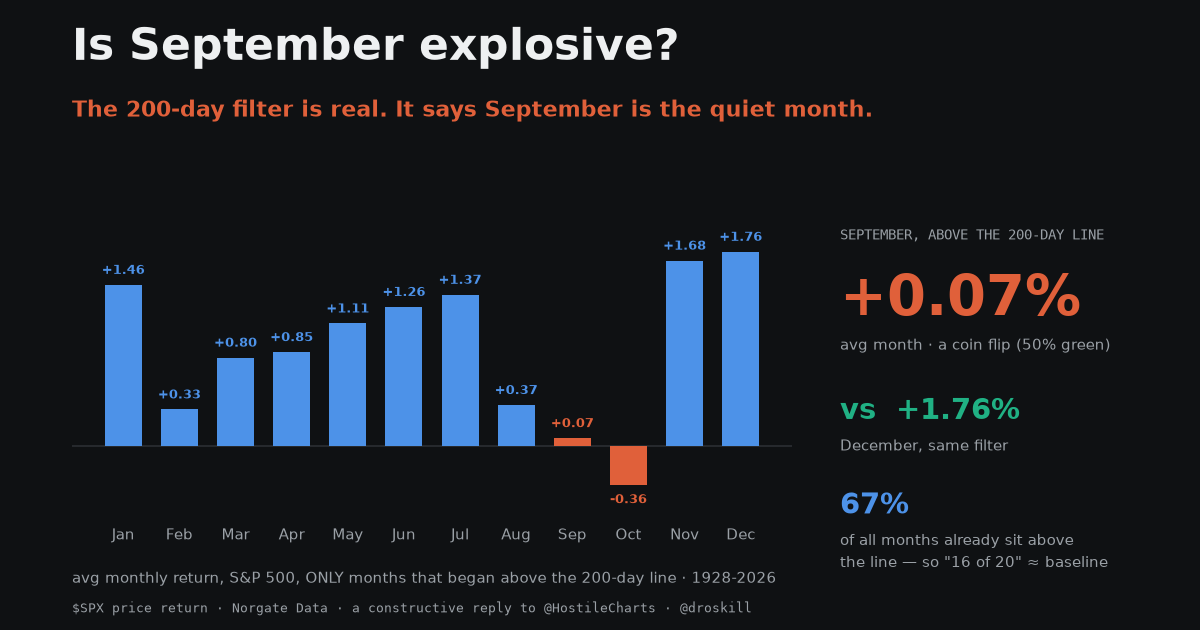
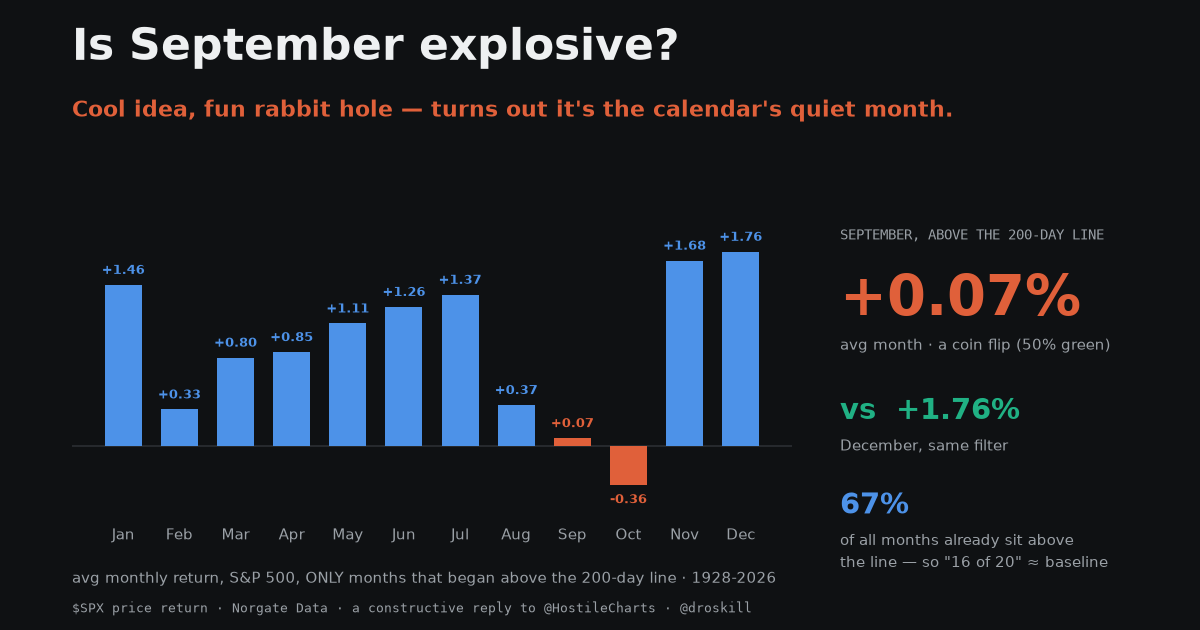
September page: warmer, more casual tone
Rewrite copy from a 'well, actually' register to genuine nerd-enthusiasm
(cool idea, fun rabbit hole). Same data and charts; friendlier framing that
credits @HostileCharts throughout.

Changed region(s): [[0.0617, 0.1508, 0.8017, 0.2111]]

diff --git a/september-200ma-study/index.html b/september-200ma-study/index.html
@@ -229,9 +229,9 @@ footer a{font-family:"IBM Plex Mono",monospace; font-size:13px}
 <div class="wrap">
 
 <header>
-  <p class="eyebrow">Seasonality forensics · Aug 2026</p>
+  <p class="eyebrow">A seasonality rabbit hole · Aug 2026</p>
   <h1>Is September <em>explosive?</em></h1>
-  <p class="dek">A post from X made a sharp observation: the best Septembers cluster above the 200-day average. That&rsquo;s a real, useful filter &mdash; so I ran it across all twelve months of the S&amp;P 500 back to 1928. It holds market-wide. And it says September is the calendar&rsquo;s quietest month, not its firecracker.</p>
+  <p class="dek">A post from X caught my eye: the best Septembers tend to show up above the 200-day average. Fun idea, and it got me curious &mdash; so I chased it across all twelve months of the S&amp;P back to 1928. Good news: the filter totally works. Funny news: it makes September look like the sleepiest month on the calendar, not the firecracker.</p>
   <div class="byline">
     <span><b>@droskill</b></span>
     <span>S&amp;P 500 ($SPX)</span>
@@ -241,9 +241,9 @@ footer a{font-family:"IBM Plex Mono",monospace; font-size:13px}
 </header>
 
 <section class="measure">
-  <p class="lead">Credit where it&rsquo;s due: the chart from <a href="https://x.com/HostileCharts" rel="nofollow">@HostileCharts</a> was making a genuinely good point. Of the 20 best Septembers since 1928, 16 came while the S&amp;P was above its 200-day moving average and 15 had a positive year-to-date. The conclusion &mdash; that September&rsquo;s character depends on the conditions it starts in, and that the same setup can produce both the best and worst months &mdash; is exactly the right instinct. Trend state matters. Most people ignore it entirely.</p>
+  <p class="lead">First off &mdash; I really liked this chart from <a href="https://x.com/HostileCharts" rel="nofollow">@HostileCharts</a>. Of the 20 best Septembers since 1928, 16 happened with the S&amp;P above its 200-day moving average and 15 had a positive year-to-date. The takeaway &mdash; that September&rsquo;s mood depends on the weather it starts in, and the same setup can cook up both the best months and the worst &mdash; is a genuinely good instinct. Trend state matters, and most people never even look at it. So: cool idea. I wanted to play with it.</p>
 
-  <p>So this isn&rsquo;t a takedown. It&rsquo;s a &ldquo;yes, and.&rdquo; The 200-day filter is real enough to be worth generalizing, and the honest way to test it is to apply it to <em>every</em> month, not just September. When you do, two things fall out. The filter earns its keep across the whole calendar. And under that same filter, September stops looking explosive and starts looking like the flattest square on the board.</p>
+  <p>The natural next question is just: does this only work for September, or does it work everywhere? So I ran the exact same above/below-the-200-day split on all twelve months and let the data talk. Two fun things popped out. The filter earns its keep across the whole calendar &mdash; nice. And once you look at September <em>through its own filter</em>, it turns out to be less firecracker, more warm glass of milk.</p>
 </section>
 
 <section>
@@ -267,8 +267,8 @@ footer a{font-family:"IBM Plex Mono",monospace; font-size:13px}
 </section>
 
 <section class="measure">
-  <h2><span class="num">01</span>The 200-day filter is real &mdash; and not just in September</h2>
-  <p>Start with the part the post got right. Split all 1,183 months in the record by one bit of information: was the S&amp;P above or below its 200-day average entering the month? Above-the-line months average <strong>+0.89%</strong> and finish green 63% of the time; below-the-line months average <strong>+0.18%</strong> and are a near coin flip at 53%. That&rsquo;s a real, persistent edge from a single trend switch &mdash; roughly a five-to-one gap in expected return. Respecting the 200-day line is good discipline, and the post deserves credit for pointing at it.</p>
+  <h2><span class="num">01</span>The good news: the filter really works</h2>
+  <p>Let&rsquo;s start with the win, because it&rsquo;s a good one. Take all 1,183 months on record and sort them by one little bit of info: was the S&amp;P above or below its 200-day average heading into the month? Above-the-line months average <strong>+0.89%</strong> and finish green 63% of the time. Below-the-line months average <strong>+0.18%</strong> and are basically a coin flip at 53%. One trend switch, roughly a five-to-one difference in what you can expect. That&rsquo;s a lot of signal from a single line on a chart &mdash; the post was onto something real.</p>
 </section>
 
 <figure class="breakout">
@@ -277,14 +277,14 @@ footer a{font-family:"IBM Plex Mono",monospace; font-size:13px}
     <p class="csub">S&amp;P 500 · 1928&ndash;2026 · months entering above their 200-day average</p>
     <div class="chart" id="chart1"></div>
   </div>
-  <figcaption>Even after you keep only the &ldquo;good&rdquo; months &mdash; the ones that start in an uptrend &mdash; September (+0.07%) and October (&minus;0.36%) are the two that go nowhere. December and November nearly triple the calendar average. September isn&rsquo;t explosive in this data; it&rsquo;s the quietest month there is.</figcaption>
+  <figcaption>Here&rsquo;s the funny part. Even after you keep only the &ldquo;good&rdquo; months &mdash; the ones that start in an uptrend &mdash; September (+0.07%) and October (&minus;0.36%) are the two that just kind of sit there. November and December nearly triple the calendar average. In this data September isn&rsquo;t the firecracker; it&rsquo;s the quietest month on the board.</figcaption>
 </figure>
 
 <section class="measure">
-  <h2><span class="num">02</span>&ldquo;16 of 20 above the line&rdquo; is close to the baseline</h2>
-  <p>Here&rsquo;s the one place I&rsquo;d gently push back on the framing. Because markets rise more than they fall, the S&amp;P spends most of its life above the 200-day line: <strong>67% of all months</strong> in the sample start there. So any list of &ldquo;best months&rdquo; will be roughly two-thirds above the line before you sort a single return. Sixteen of twenty &mdash; 80% &mdash; is above that baseline, but by less than it first appears. The filter&rsquo;s value shows up in the <em>averages</em> above, not in the headcount of a top-20 list.</p>
+  <h2><span class="num">02</span>One thing to watch: &ldquo;16 of 20&rdquo; is sneaky</h2>
+  <p>Quick fun fact that trips everybody up (me included, at first). Because markets go up more than they go down, the S&amp;P just <em>lives</em> above its 200-day line most of the time &mdash; <strong>67% of all months</strong> start there. So any &ldquo;best months&rdquo; list is already going to be two-thirds above the line before you even look at returns. Sixteen of twenty (80%) beats that, but not by as much as it looks. The real magic is in the <em>averages</em> from section 1, not in the top-20 headcount.</p>
 
-  <p>And there&rsquo;s a genuine surprise waiting if you take that headcount logic to the whole market. Rank <em>every</em> month in history by return and look at the 20 biggest up-months of all time &mdash; only <strong>7 of them</strong> (35%) were above the 200-day line. The largest monthly gains on record are bear-market rallies: the ferocious bounces of 1932, 1938, 2020. If &ldquo;explosive&rdquo; means the biggest moves, explosiveness actually lives <em>below</em> the trend, not above it. September&rsquo;s best months simply aren&rsquo;t those &mdash; which is why its top-20 skews so far above the line in the first place.</p>
+  <p>And here&rsquo;s where it gets genuinely weird &mdash; the best part of the whole rabbit hole. Rank <em>every</em> month in history by return and grab the 20 biggest up-months ever. Only <strong>7 of them</strong> (35%) were above the 200-day line! The all-time monster months are bear-market rallies &mdash; the face-ripping bounces of 1932, 1938, 2020. If &ldquo;explosive&rdquo; means the biggest single moves, explosiveness actually lives <em>below</em> the trend. September just never throws those parties, which is exactly why its own top-20 leans so far above the line.</p>
 </section>
 
 <figure class="breakout">
@@ -293,12 +293,12 @@ footer a{font-family:"IBM Plex Mono",monospace; font-size:13px}
     <p class="csub">the baseline, the biggest up-months, and the best Septembers</p>
     <div class="chart" id="chart2"></div>
   </div>
-  <figcaption>Two-thirds of all months already start above the line, so &ldquo;most of the best Septembers were above it&rdquo; is partly just the base rate. The twist: the 20 biggest up-months in market history skew the other way &mdash; only about a third were above the line, because the largest single-month gains are bear-market snapbacks.</figcaption>
+  <figcaption>Two-thirds of all months already start above the line, so &ldquo;most of the best Septembers were above it&rdquo; is partly just the house baseline. The twist that made me grin: the 20 biggest up-months in history lean the <em>other</em> way &mdash; only about a third were above the line, because the truly giant months are bear-market snapbacks.</figcaption>
 </figure>
 
 <section class="measure">
-  <h2><span class="num">03</span>Under its own filter, September is the quiet month</h2>
-  <p>Rank the twelve months by how they behave <em>after</em> you apply the post&rsquo;s own above-the-line condition, and September lands at the bottom with October. It&rsquo;s the only month that&rsquo;s a literal coin flip in an uptrend (50% green), and its average return is a rounding error next to December&rsquo;s +1.76% or November&rsquo;s +1.68%. Below the line, September is genuinely rough &mdash; a &minus;3.99% average and only 32% green &mdash; but that&rsquo;s the point: September&rsquo;s distinctive trait is downside <em>tail risk</em> when the trend is already broken, not explosive upside when it&rsquo;s intact.</p>
+  <h2><span class="num">03</span>So what IS September&rsquo;s deal?</h2>
+  <p>Line the twelve months up by how they act <em>after</em> you apply the post&rsquo;s own above-the-line rule, and September plops down at the bottom next to October. It&rsquo;s the only month that&rsquo;s a straight coin flip in an uptrend (50% green), and its average return is basically a rounding error next to December&rsquo;s +1.76% or November&rsquo;s +1.68%. The one place September <em>does</em> have a personality? When it starts <em>below</em> the line it gets genuinely spicy &mdash; &minus;3.99% average, only 32% green. So September&rsquo;s real signature isn&rsquo;t explosive upside in a good tape; it&rsquo;s a bit of a temper once the trend has already cracked.</p>
 
   <div class="tablewrap">
     <table>
@@ -325,14 +325,14 @@ footer a{font-family:"IBM Plex Mono",monospace; font-size:13px}
   </div>
 
   <div class="callout">
-    <p>The 200-day line is a genuine filter, and it agrees with the post that conditions matter. It just tells a different story about September: not explosive upside in an uptrend, but real downside when the trend has already turned.</p>
-    <span class="who">Same filter, followed one step further.</span>
+    <p>The 200-day line is a real, useful filter &mdash; the post nailed that. Follow it one more step and September&rsquo;s story flips from &ldquo;secretly explosive&rdquo; to &ldquo;secretly boring, unless the trend&rsquo;s already broken.&rdquo;</p>
+    <span class="who">Same idea, one rabbit hole deeper.</span>
   </div>
 </section>
 
 <section class="measure">
-  <h2><span class="num">04</span>So what would you actually do with this?</h2>
-  <p>The practical read isn&rsquo;t &ldquo;sell every September&rdquo; &mdash; seasonality that weak is not a strategy, and the post is right that a fearful, blanket &ldquo;September is bearish&rdquo; is lazy. The read is the thing the post and this analysis agree on: <strong>trade the trend state, not the calendar page.</strong> A September that opens above the 200-day line is an ordinary, slightly sleepy month you can hold through. A September that opens <em>below</em> it carries a &minus;4% average and a two-in-three chance of a red month &mdash; that&rsquo;s where the caution belongs. The month name was never the signal. The 200-day line, the thing the original post reached for, is.</p>
+  <h2><span class="num">04</span>Okay, so what do you actually do?</h2>
+  <p>Honestly? Not much about September itself &mdash; and that&rsquo;s the fun conclusion. Seasonality this mild isn&rsquo;t a strategy, and the post is totally right that a blanket &ldquo;September scary, sell everything&rdquo; is the lazy take. The thing we both land on is the good one: <strong>watch the trend, not the calendar page.</strong> A September that opens above the 200-day line is just an ordinary, sleepy month &mdash; hold through it. A September that opens <em>below</em> it (&minus;4% average, red two times in three) is where you actually perk up. The month name was never the tell. That 200-day line the post reached for? That&rsquo;s the tell.</p>
 </section>
 
 <div class="method measure">
@@ -347,7 +347,7 @@ footer a{font-family:"IBM Plex Mono",monospace; font-size:13px}
 </div>
 
 <section class="measure">
-  <p style="color:var(--ink-2)">None of this makes the original post wrong. It spotted the right variable &mdash; trend state via the 200-day line &mdash; and drew a fair conclusion about September&rsquo;s dual nature. Following that same variable across all twelve months just sharpens the picture: the explosiveness people fear or hope for in September isn&rsquo;t really there. What&rsquo;s there is a quiet month that turns dangerous only once the trend has already broken. The line was the signal all along.</p>
+  <p style="color:var(--ink-2)">Anyway &mdash; none of this makes the original post wrong, and that&rsquo;s kind of the point. It grabbed the right variable (trend state, via the 200-day line) and asked a good question. Chasing that same variable across all twelve months just adds a fun coda: the explosiveness we all half-expect from September isn&rsquo;t really there. It&rsquo;s a quiet month that only gets interesting once the trend&rsquo;s already broken. Thanks to @HostileCharts for the jumping-off point &mdash; that&rsquo;s the good stuff about this corner of finance twitter.</p>
 </section>
 
 <footer class="wrap">
